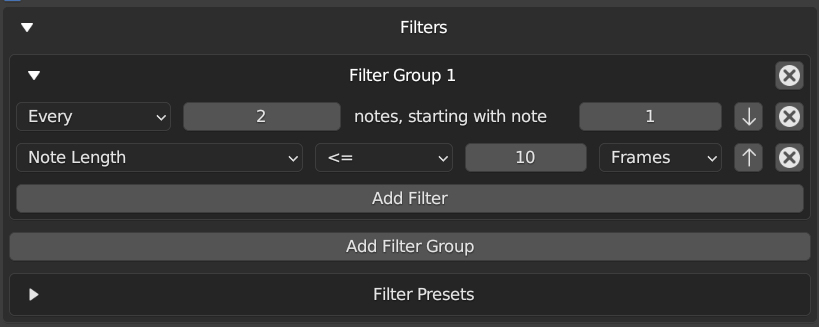
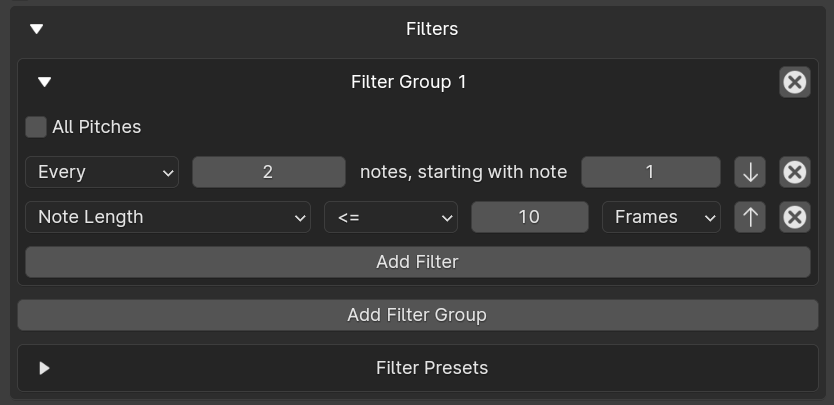
Add All Pitches checkbox to filter groups  * Update the Copy midi file data buttons to be available when midi file settings are different between the views  * Update CC Data in graph editor to always use selected pitch (unless there are pitch filters)  * Fix single keyframe actions not generating a 

diff --git a/PanelUtils.py b/PanelUtils.py
@@ -128,13 +128,14 @@ def set_operator_lookup_properties(operator, midi_data_type, is_part_of_instrume
         operator.filter_index = filter_index
 
 
-def draw_filter_box(parent_layout, note_action_property, is_instrument_property, action_index, midi_data_type, context):
+def draw_filter_box(parent_layout, note_action_property, is_instrument_property, action_index, midi_data_type, context,
+                    draw_all_pitches_checkbox: bool = True):
     box = draw_collapsible_box(parent_layout, i18n.get_key(i18n.FILTERS), note_action_property, "filters_expanded")[0]
     if note_action_property.filters_expanded:
         filter_group_index = 0
         for filter_group in note_action_property.note_filter_groups:
             draw_filter_group(box, filter_group, is_instrument_property, action_index, filter_group_index,
-                              midi_data_type)
+                              midi_data_type, draw_all_pitches_checkbox)
             filter_group_index += 1
 
         col = box.column(align=True)
@@ -167,7 +168,7 @@ def draw_filter_box(parent_layout, note_action_property, is_instrument_property,
 
 
 def draw_filter_group(parent_layout, filter_group_property, is_instrument_property, action_index,
-                      filter_group_index, midi_data_type):
+                      filter_group_index, midi_data_type, draw_all_pitches_checkbox: bool):
     collapsible_box = draw_collapsible_box(
         parent_layout, i18n.concat(i18n.get_text(i18n.FILTER_GROUP), str(filter_group_index + 1)),
         filter_group_property, "expanded", RemoveFilterGroup.bl_idname)
@@ -178,17 +179,26 @@ def draw_filter_group(parent_layout, filter_group_property, is_instrument_proper
 
     if filter_group_property.expanded:
         draw_filters_list(action_index, box, filter_group_index, filter_group_property, is_instrument_property,
-                          midi_data_type)
+                          midi_data_type, draw_all_pitches_checkbox)
 
 
 def draw_filters_list(action_index, box, filter_group_index, filter_group_property, is_instrument_property,
-                      midi_data_type):
+                      midi_data_type, draw_all_pitches_checkbox: bool):
     filter_index = 0
     filter_count = len(filter_group_property.note_filters)
+    all_pitches_row = box.row() if draw_all_pitches_checkbox else None
+    pitch_filter_exists = False
     for filter_property in filter_group_property.note_filters:
         draw_filter(box, filter_property, is_instrument_property, action_index, filter_group_index,
                     filter_index, filter_count, midi_data_type)
         filter_index = filter_index + 1
+        if filter_property.filter_type == NoteFilterImplementations.PitchFilter.ID:
+            pitch_filter_exists = True
+    # draw the All Pitches checkbox above the filters
+    if draw_all_pitches_checkbox:
+        all_pitches_row.enabled = not pitch_filter_exists
+        all_pitches_row.prop(filter_group_property,
+                             "all_pitches_selected_read_only" if pitch_filter_exists else "all_pitches")
     final_row = box.row()
     add_filter_operator = final_row.operator(AddNoteFilter.bl_idname, text=i18n.get_key(i18n.ADD_FILTER_OP))
     set_operator_lookup_properties(add_filter_operator, midi_data_type, is_instrument_property, action_index,
@@ -285,16 +295,15 @@ COPY_MIDI_FILE_DICTIONARY = {MidiDataType.NLA: ("NLA", i18n.get_key(i18n.COPY_FI
 def draw_midi_file_selections(parent_layout, midi_data_property, midi_data_type: int, context,
                               note_property_text=i18n.get_label(i18n.NOTE)):
     def draw_copy_to_operator(copy_to_parent_layout, data_type_from, data_type_to):
-        if data_type_from != data_type_to:
-            copy_from_midi_file = midi_data.get_midi_data_property(data_type_from, context).midi_file
-            if copy_from_midi_file is not None and len(copy_from_midi_file) > 0:
-                icon = COPY_MIDI_FILE_DICTIONARY[data_type_from][0]
-                tooltip = i18n.get_text_tip(COPY_MIDI_FILE_DICTIONARY[data_type_from][1])
-                copy_to_operator = copy_to_parent_layout.operator(OperatorUtils.CopyMidiFileData.bl_idname, text="",
-                                                                  icon=icon)
-                copy_to_operator.copy_from_data_type = data_type_from
-                copy_to_operator.copy_to_data_type = data_type_to
-                copy_to_operator.tooltip = tooltip
+        copy_from_midi_file = midi_data.get_midi_data_property(data_type_from, context).midi_file
+        if copy_from_midi_file is not None and len(copy_from_midi_file) > 0:
+            icon = COPY_MIDI_FILE_DICTIONARY[data_type_from][0]
+            tooltip = i18n.get_text_tip(COPY_MIDI_FILE_DICTIONARY[data_type_from][1])
+            copy_to_operator = copy_to_parent_layout.operator(OperatorUtils.CopyMidiFileData.bl_idname, text="",
+                                                              icon=icon)
+            copy_to_operator.copy_from_data_type = data_type_from
+            copy_to_operator.copy_to_data_type = data_type_to
+            copy_to_operator.tooltip = tooltip
 
     load_file_row = parent_layout.row()
     file_selector_operator = load_file_row.operator(MidiFileSelector.bl_idname,
@@ -302,8 +311,10 @@ def draw_midi_file_selections(parent_layout, midi_data_property, midi_data_type:
     file_selector_operator.midi_data_type = midi_data_type
 
     # draw options to copy midi file data from other views
-    if midi_data_property.midi_file is None or len(midi_data_property.midi_file) == 0:
-        for data_type in midi_data.MidiDataType.values():
+    for data_type in midi_data.MidiDataType.values():
+        if data_type != midi_data_property.data_type and not (
+                OperatorUtils.CopyMidiFileData.compare_midi_file_data(context, data_type,
+                                                                      midi_data_property.data_type)):
             draw_copy_to_operator(load_file_row, data_type, midi_data_property.data_type)
 
     if midi_data_property.midi_file:

diff --git a/MidiPropertiesModule.py b/MidiPropertiesModule.py
@@ -15,6 +15,8 @@ if "bpy" in locals():
     importlib.reload(CompatibilityModule)
     # noinspection PyUnresolvedReferences,PyUnboundLocalVariable
     importlib.reload(i18n)
+    # noinspection PyUnresolvedReferences,PyUnboundLocalVariable
+    importlib.reload(ActionUtils)
 else:
     from . import midi_data
     from . import NoteFilterImplementations
@@ -22,6 +24,7 @@ else:
     from . import PropertyUtils
     from . import CollectionUtils
     from . import CompatibilityModule
+    from . import ActionUtils
     from .i18n import i18n
 
 import bpy
@@ -95,7 +98,7 @@ def on_action_updated(note_action_property, context):
     action = note_action_property.action
     # update the action length property to match the actual length of the action
     if action is not None:
-        note_action_property.action_length = int(action.frame_range[1]) - int(action.frame_range[0])
+        note_action_property.action_length = int(ActionUtils.action_length(action))
 
 
 COMPARISON_ENUM_PROPERTY_ITEMS = [("less_than", "<", i18n.get_key(i18n.LESS_THAN), 0),
@@ -106,6 +109,17 @@ COMPARISON_ENUM_PROPERTY_ITEMS = [("less_than", "<", i18n.get_key(i18n.LESS_THAN
 
 TIME_UNITS = [("frames", i18n.get_key(i18n.FRAMES), i18n.get_key(i18n.FRAMES), 0),
               ("seconds", i18n.get_key(i18n.SECONDS), i18n.get_key(i18n.SECONDS), 1)]
+
+
+class NoteFilterGroupPropertyBase:
+    expanded: BoolProperty(name="Expanded", default=True)
+    all_pitches: BoolProperty(name="All Pitches", description=i18n.get_key(i18n.ALL_PITCHES_FILTER_DESCRIPTION),
+                              default=False)
+    # this property is only used for display when there is a pitch filter in the list
+    # (all pitches is always treated as selected in that case)
+    all_pitches_selected_read_only: BoolProperty(name=i18n.get_key(i18n.ALL_PITCHES),
+                                                 description=i18n.get_key(i18n.ALL_PITCHES_FILTER_DESCRIPTION),
+                                                 default=True)
 
 
 class NoteFilterPropertyBase:
@@ -144,18 +158,19 @@ class NoteFilterProperty(PropertyGroup, NoteFilterPropertyBase):
     data_type = MidiDataType.NLA
 
 
-class NoteFilterGroup(PropertyGroup):
+class NoteFilterGroup(PropertyGroup, NoteFilterGroupPropertyBase):
     note_filters: CollectionProperty(type=NoteFilterProperty, name=i18n.get_key(i18n.NOTE_FILTERS))
-    expanded: BoolProperty(name="Expanded", default=True)
 
 
+# class is used for storing note filters in the presets (not specific to any view like nla or graph editor)
 class GenericNoteFilterProperty(PropertyGroup, NoteFilterPropertyBase):
     # set data type so that there is a LoadedMidiData for get_all_notes_for_pitch_filter
     # any data type works because only the pitch matters (not the displayed note)
     data_type = MidiDataType.NLA
 
 
-class GenericNoteFilterGroup(PropertyGroup):
+# class is used for storing note filter groups in the presets (not specific to any view like nla or graph editor)
+class GenericNoteFilterGroup(PropertyGroup, NoteFilterGroupPropertyBase):
     note_filters: CollectionProperty(type=GenericNoteFilterProperty)
 
 

diff --git a/OperatorUtils.py b/OperatorUtils.py
@@ -75,7 +75,6 @@ class CopyMidiFileData(bpy.types.Operator):
         tempo_settings_to.beats_per_minute = tempo_settings_from.beats_per_minute
         tempo_settings_to.use_file_ticks_per_beat = tempo_settings_from.use_file_ticks_per_beat
         tempo_settings_to.ticks_per_beat = tempo_settings_from.ticks_per_beat
-        tempo_settings_to.ticks_per_beat = tempo_settings_from.ticks_per_beat
 
         midi_track_properties_from = midi_data_property_from.midi_track_properties
         midi_track_properties_to = midi_data_property_to.midi_track_properties
@@ -85,6 +84,34 @@ class CopyMidiFileData(bpy.types.Operator):
             midi_track_property_to.midi_data_type = self.copy_to_data_type
             midi_track_property_to.midi_track_name = midi_track_property_from.midi_track_name
             midi_track_property_to.displayed_track_name = midi_track_property_from.displayed_track_name
+
+    @staticmethod
+    def compare_midi_file_data(context, data_type_1, data_type_2) -> bool:
+        midi_data_property_1 = midi_data.get_midi_data_property(data_type_1, context)
+        midi_data_property_2 = midi_data.get_midi_data_property(data_type_2, context)
+
+        if midi_data_property_1.midi_file != midi_data_property_2.midi_file or \
+                midi_data_property_1.midi_frame_start != midi_data_property_2.midi_frame_start or \
+                midi_data_property_1.middle_c_note != midi_data_property_2.middle_c_note:
+            return False
+
+        tempo_settings_1 = midi_data_property_1.tempo_settings
+        tempo_settings_2 = midi_data_property_2.tempo_settings
+        if tempo_settings_1.use_file_tempo != tempo_settings_2.use_file_tempo or \
+                tempo_settings_1.beats_per_minute != tempo_settings_2.beats_per_minute or \
+                tempo_settings_1.use_file_ticks_per_beat != tempo_settings_2.use_file_ticks_per_beat or \
+                tempo_settings_1.ticks_per_beat != tempo_settings_2.ticks_per_beat:
+            return False
+
+        midi_track_properties_1 = midi_data_property_1.midi_track_properties
+        midi_track_properties_2 = midi_data_property_2.midi_track_properties
+        if len(midi_track_properties_1) != len(midi_track_properties_2):
+            return False
+        for (midi_track_property_1, midi_track_property_2) in zip(midi_track_properties_1, midi_track_properties_2):
+            if midi_track_property_1.midi_track_name != midi_track_property_2.midi_track_name or \
+                    midi_track_property_1.displayed_track_name != midi_track_property_2.displayed_track_name:
+                return False
+        return True
 
 
 class DynamicTooltipOperator:

diff --git a/PropertyUtils.py b/PropertyUtils.py
@@ -82,6 +82,7 @@ def copy_filters(copy_from_note_filter_groups, copy_to_note_filter_groups):
     copy_to_note_filter_groups.clear()
     for copy_from_filter_group in copy_from_note_filter_groups:
         copy_to_filter_group = copy_to_note_filter_groups.add()
+        copy_to_filter_group.all_pitches = copy_from_filter_group.all_pitches
         for copy_from_filter in copy_from_filter_group.note_filters:
             copy_to_filter = copy_to_filter_group.note_filters.add()
             copy_to_filter.filter_type = copy_from_filter.filter_type
@@ -101,15 +102,11 @@ def copy_filters(copy_from_note_filter_groups, copy_to_note_filter_groups):
 def compare_filters(filter_groups_1, filter_groups_2):
     if len(filter_groups_1) != len(filter_groups_2):
         return False
-    for i in range(len(filter_groups_1)):
-        filter_group_1 = filter_groups_1[i]
-        filter_group_2 = filter_groups_2[i]
-        if len(filter_group_1.note_filters) != len(filter_group_2.note_filters):
+    for (filter_group_1, filter_group_2) in zip(filter_groups_1, filter_groups_2):
+        if len(filter_group_1.note_filters) != len(filter_group_2.note_filters) or \
+                filter_group_1.all_pitches != filter_group_2.all_pitches:
             return False
-        for j in range(len(filter_group_1.note_filters)):
-            note_filter_1 = filter_group_1.note_filters[j]
-            note_filter_2 = filter_group_2.note_filters[j]
-
+        for (note_filter_1, note_filter_2) in zip(filter_group_1.note_filters, filter_group_2.note_filters):
             filters_equal = \
                 note_filter_1.filter_type == note_filter_2.filter_type and \
                 note_filter_1.comparison_operator == note_filter_2.comparison_operator and \

diff --git a/NLAMidiCopierModule.py b/NLAMidiCopierModule.py
@@ -64,7 +64,7 @@ class ActionToCopy:
     def copy_action(self):
         # shift strips to the right if adding the non-scaled action will cause an overlap
         shift_amount_frames = 0
-        true_action_length = self.action.frame_range[1] - self.action.frame_range[0]
+        true_action_length = ActionUtils.action_length(self.action)
         if len(self.strips_to_shift) > 0:
             shift_amount_frames = true_action_length
             ActionUtils.shift_action_strips(self.strips_to_shift, shift_amount_frames)
@@ -279,7 +279,7 @@ class NoteActionCopier:
 
         loaded_midi_data = midi_data.get_midi_data(MidiDataType.NLA)
         action = self.note_action_property.action
-        non_scaled_action_length = None if action is None else action.frame_range[1] - action.frame_range[0]
+        non_scaled_action_length = None if action is None else ActionUtils.action_length(action)
 
         note_overlap_strategy = NoteCollectionOverlapStrategy(not self.duplicate_on_overlap, self.duplicate_on_overlap,
                                                               False)

diff --git a/DopeSheetMidiPropertiesModule.py b/DopeSheetMidiPropertiesModule.py
@@ -20,16 +20,16 @@ from bpy.props import BoolProperty, StringProperty, EnumProperty, IntProperty, P
     FloatProperty
 from bpy.types import PropertyGroup
 from .midi_data import MidiDataType
-from .MidiPropertiesModule import MidiPropertyBase, TempoPropertyBase, NoteActionPropertyBase, NoteFilterPropertyBase
+from .MidiPropertiesModule import MidiPropertyBase, TempoPropertyBase, NoteActionPropertyBase, NoteFilterPropertyBase, \
+    NoteFilterGroupPropertyBase
 
 
 class DopeSheetNoteFilterProperty(PropertyGroup, NoteFilterPropertyBase):
     data_type = MidiDataType.DOPESHEET
 
 
-class DopeSheetNoteFilterGroup(PropertyGroup):
+class DopeSheetNoteFilterGroup(PropertyGroup, NoteFilterGroupPropertyBase):
     note_filters: CollectionProperty(type=DopeSheetNoteFilterProperty, name=i18n.get_key(i18n.NOTE_FILTERS))
-    expanded: BoolProperty(name="Expanded", default=True)
 
 
 class DopeSheetNoteActionProperty(PropertyGroup, NoteActionPropertyBase):

diff --git a/GraphEditorMidiPropertiesModule.py b/GraphEditorMidiPropertiesModule.py
@@ -24,16 +24,16 @@ from bpy.props import BoolProperty, StringProperty, EnumProperty, IntProperty, P
     FloatProperty
 from bpy.types import PropertyGroup
 from .midi_data import MidiDataType
-from .MidiPropertiesModule import MidiPropertyBase, TempoPropertyBase, NoteActionPropertyBase, NoteFilterPropertyBase
+from .MidiPropertiesModule import MidiPropertyBase, TempoPropertyBase, NoteActionPropertyBase, NoteFilterPropertyBase, \
+    NoteFilterGroupPropertyBase
 
 
 class GraphEditorNoteFilterProperty(PropertyGroup, NoteFilterPropertyBase):
     data_type = MidiDataType.GRAPH_EDITOR
 
 
-class GraphEditorNoteFilterGroup(PropertyGroup):
+class GraphEditorNoteFilterGroup(PropertyGroup, NoteFilterGroupPropertyBase):
     note_filters: CollectionProperty(type=GraphEditorNoteFilterProperty, name="Note Filters")
-    expanded: BoolProperty(name="Expanded", default=True)
 
 
 def get_all_notes(keyframe_generation_property, context):

diff --git a/i18n/i18n.py b/i18n/i18n.py
@@ -78,6 +78,8 @@ ADD_FILTERS_DESCRIPTION = "Add filters to exclude notes"
 ADD_FILTER_GROUP_DESCRIPTION = "Add a filter group.\nA filter group is a list of filters to be applied when coping the action. The filters in each group will be applied in the order they are defined. The action is copied to notes that match any of the filter groups"
 ADD_FILTER_GROUP_OP = operator("Add Filter Group")
 ADD_FILTER_OP = operator("Add Filter")
+ALL_PITCHES = "All Pitches"
+ALL_PITCHES_FILTER_DESCRIPTION = "If selected, the filter group acts on all pitches (ignoring the selected pitch in the midi panel, or igonring the instrument note if this filter is part of an instrument). This is always selected if any of the filters are pitch filters"
 ALTERNATION_FILTER_DESCRIPTION = "Filter notes by an alternation pattern. (For example only every fourth note, starting with the third note.)"
 ANGLE = "Angle"
 ANIMATE = "Animate"

diff --git a/NoteFilterImplementations.py b/NoteFilterImplementations.py
@@ -319,7 +319,8 @@ def __notes_passing_filter(notes: List['AnalyzedNote'], filter_group_property, d
     note_filters = [ID_TO_FILTER[note_filter_property.filter_type](note_filter_property) for
                     note_filter_property in filter_group_property.note_filters]
     # apply default pitch as pitch filter if no pitch filters are part of the filter groups
-    if default_pitch_filter and not any(isinstance(note_filter, PitchFilter) for note_filter in note_filters):
+    if not filter_group_property.all_pitches and default_pitch_filter and not any(
+            isinstance(note_filter, PitchFilter) for note_filter in note_filters):
         notes_paired_to_index = [note_index_pair for note_index_pair in notes_paired_to_index if
                                  note_index_pair[1].note.pitch == default_pitch]
     for note_filter in note_filters:

diff --git a/GraphEditorMidiPanelModule.py b/GraphEditorMidiPanelModule.py
@@ -122,7 +122,10 @@ class GraphEditorMidiPanel(bpy.types.Panel):
         col.prop(graph_editor_note_action_property, "add_filters")
         if graph_editor_note_action_property.add_filters:
             PanelUtils.draw_filter_box(col, graph_editor_note_action_property, False, None,
-                                       MidiDataType.GRAPH_EDITOR, context)
+                                       MidiDataType.GRAPH_EDITOR, context,
+                                       draw_all_pitches_checkbox=(
+                                                   keyframe_generator.property_type != "note" or
+                                                   keyframe_generator.note_property != "Pitch"))
         col.prop(midi_data_property, "midi_frame_start")
         col.prop(graph_editor_note_action_property, "midi_frame_offset")
         col.separator()

diff --git a/GraphEditorKeyframeGeneratorModule.py b/GraphEditorKeyframeGeneratorModule.py
@@ -107,6 +107,7 @@ def get_note_collection(loaded_midi_data, context, graph_editor_note_action_prop
     note_id = loaded_midi_data.get_note_id(context)
     note_collection_filter = NoteCollectionFilter(graph_editor_note_action_property.note_filter_groups,
                                                   PitchUtils.note_pitch_from_id(note_id),
+                                                  keyframe_generator_property.property_type != "note" or
                                                   keyframe_generator_property.note_property != "Pitch",
                                                   graph_editor_note_action_property.add_filters, context)
     return NoteCollection(notes, note_collection_meta_data, overlap_strategy, note_collection_filter)

diff --git a/__init__.py b/__init__.py
@@ -2,10 +2,10 @@ bl_info = \
     {
         "name": "Blender NLA Midi Copier",
         "author": "Cornerback24",
-        "version": (0, 18, 0),
+        "version": (0, 19, 0),
         "blender": (2, 80, 0),
-        "location": "View NLA Editor > Tool Shelf",
-        "description": "Copy actions to action strips based on midi file input",
+        "location": "NLA Editor and Graph Editor Sidebar",
+        "description": "Copy actions to action strips and generate graph editor keyframes based on midi file input",
         "doc_url": "https://github.com/Cornerback24/Blender-NLA-Midi-Copier#blender-nla-midi-copier",
         "tracker_url": "https://github.com/Cornerback24/Blender-NLA-Midi-Copier/issues",
         "support": "COMMUNITY",
